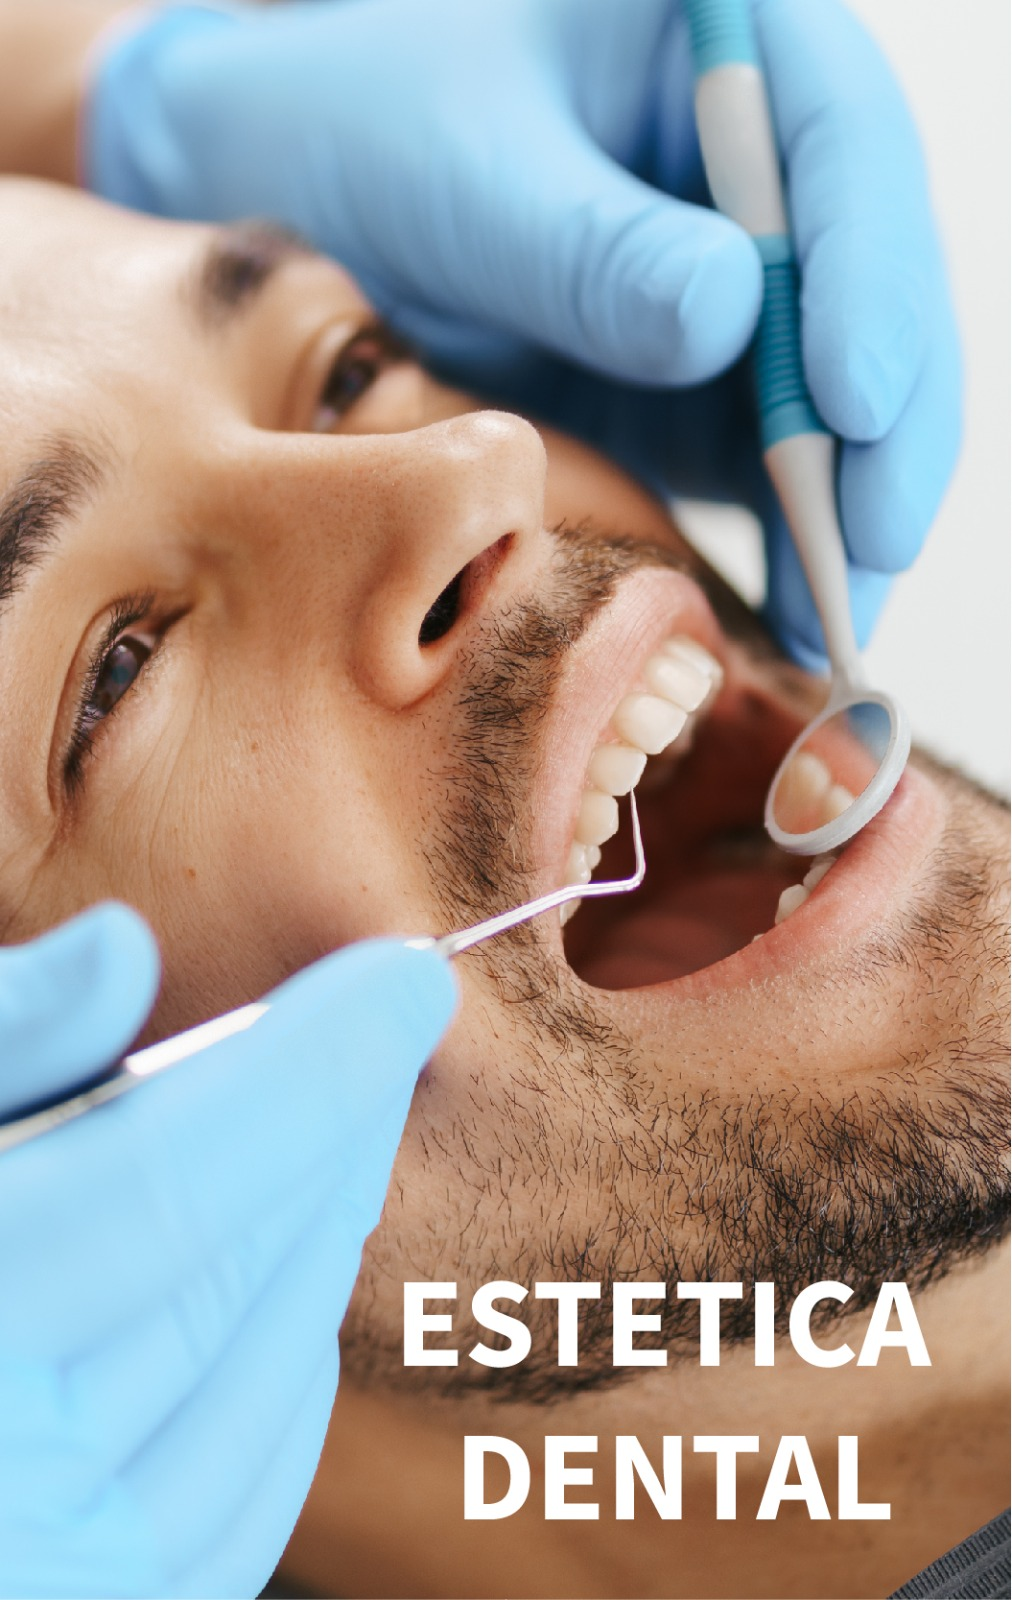
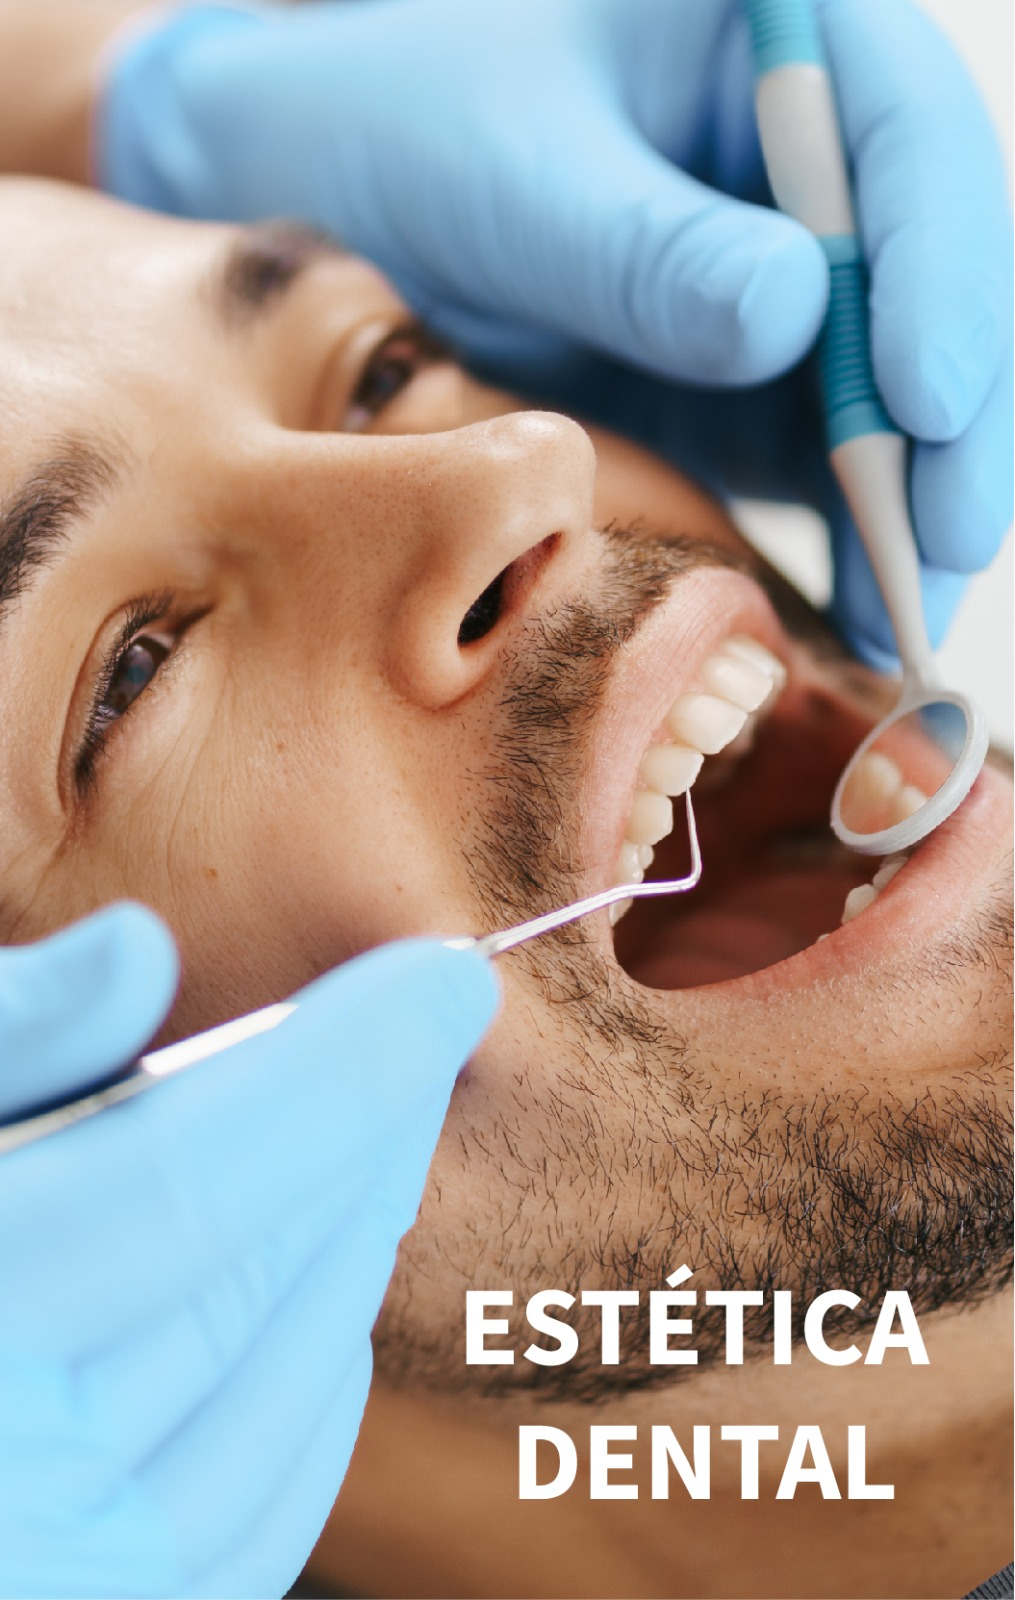
CORRECIONES

diff --git a/especialidades.html b/especialidades.html
@@ -23,7 +23,7 @@
         integrity="sha512-iBBXm8fW90+nuLcSKlbmrPcLa0OT92xO1BIsZ+ywDWZCvqsWgccV3gFoRBv0z+8dLJgyAHIhR35VZc2oM/gI1w=="
         crossorigin="anonymous" referrerpolicy="no-referrer" />
     <!-- icono -->
-    <link rel="icon" href="img/logo1.ico">   
+    <link rel="icon" href="img/logo1.ico">
     <!-- CSS -->
     <link rel="stylesheet" href="especialidades.css">
     <title>especialidades</title>
@@ -53,7 +53,7 @@
                                 <a class="nav-link active" aria-current="page" href="index.html">Inicio</a>
                             </li>
                             <li class="nav-item">
-                                <a class="nav-link" href="casos.html">Casos Clinicos</a>
+                                <a class="nav-link" href="casos.html">Casos Clínicos</a>
                             </li>
 
                             <li class="nav-item">
@@ -162,7 +162,7 @@
         <div class="container-fluid especialidades d-flex flex-column flex-md-row align-items-center">
             <div class="d-flex flex-column col-12 col-md-8">
                 <div class="titulo">
-                    <h2 class="fw-bold pb-5 text-center">Protesis</h2>
+                    <h2 class="fw-bold pb-5 text-center">Prótesis dental</h2>
                 </div>
                 <div class="px-4 p-4">
                     <p class="descripcion fst-light text-justify">
@@ -188,7 +188,7 @@
         <div class="container-fluid especialidades-b d-flex flex-column flex-md-row align-items-center">
             <div class="d-flex flex-column col-12 col-md-8">
                 <div class="titulo">
-                    <h2 class="fw-bold pb-5 text-center">Odontopediatria</h2>
+                    <h2 class="fw-bold pb-5 text-center">Odontopediatría</h2>
                 </div>
                 <div class="px-4 p-4">
                     <p class="descripcion fst-light text-justify">
@@ -215,7 +215,7 @@
         <div class="container-fluid especialidades d-flex flex-column flex-md-row align-items-center">
             <div class="d-flex flex-column col-12 col-md-8">
                 <div class="titulo">
-                    <h2 class="fw-bold pb-5 text-center">Cariologia o estetica dental</h2>
+                    <h2 class="fw-bold pb-5 text-center">Estética dental</h2>
                 </div>
                 <div class="px-4 p-4">
                     <p class="descripcion fst-light text-justify">
@@ -261,12 +261,12 @@
                 <div class="col-lg-6">
                     <div class="footer_datos">
                         <img src="img/logo.png" class="img-fluid p-2" width="">
-                        <h4 class="d-none d-md-block">No esperes más para cuidar de tu salud dental.<br>programa una
-                            cita en línea
-                            con
-                            nosotros hoy mismo <br>y experimenta la diferencia que nuesro odontología<br> en linea puede
-                            hacer para
-                            tu sonrisa.</h4>
+                        <h4 class="d-none d-md-block">No esperes más para cuidar de tu salud dental.Programa una cita en
+                            línea
+                            con nosotros hoy mismo y experimenta la diferencia que nuesro odontología en linea puede
+                            hacer
+                            para tu sonrisa.
+                        </h4>
                     </div>
                 </div>
 

diff --git a/index.html b/index.html
@@ -21,7 +21,7 @@
     <nav class="navbar bg-body-tertiary  navbar-expand-lg fixed-top">
       <div class="container-fluid">
         <a class="logo navbar-brand ps-3" href="index.html">
-          <img cclass="img-fluid" width="180" src="img/logo.png" alt="logo">
+          <img class="img-fluid" width="180" src="img/logo.png" alt="logo">
         </a>
         <button class="navbar-toggler" type="button" data-bs-toggle="offcanvas" data-bs-target="#offcanvasNavbar"
           aria-controls="offcanvasNavbar" aria-label="Toggle navigation">
@@ -30,7 +30,7 @@
         <div class="offcanvas offcanvas-start" tabindex="-1" id="offcanvasNavbar"
           aria-labelledby="offcanvasNavbarLabel">
           <div class="offcanvas-header">
-            <h5 class="offcanvas-title" id="offcanvasNavbarLabel">odontología estética ñingle</h5>
+            <h5 class="offcanvas-title" id="offcanvasNavbarLabel">odontología estética Ñingle</h5>
             <button type="button" class="btn-close" data-bs-dismiss="offcanvas" aria-label="Close"></button>
           </div>
           <div class="offcanvas-body">
@@ -39,7 +39,7 @@
                 <a class="nav-link active" aria-current="page" href="index.html">Inicio</a>
               </li>
               <li class="nav-item">
-                <a class="nav-link" href="casos.html">Casos Clinicos</a>
+                <a class="nav-link" href="casos.html">Casos Clínicos</a>
               </li>
 
               <li class="nav-item">
@@ -105,7 +105,7 @@
     <section>
       <div class="testimonios pb-5">
         <div class="titulo">
-          <h2 class="text-center fw-bold text-white">¿Qué Opinan Nuestros Pacientes?</h2>
+          <h2 class="text-center fw-bold text-white">¿Qué opinan nuestros pacientes?</h2>
         </div>
         <div id="carouselOpiniones" class="carousel container-fluid slide" data-bs-ride="carousel"
           data-bs-interval="5000">
@@ -250,10 +250,10 @@
       <div class="col-lg-6">
         <div class="footer_datos">
           <img src="img/logo.png" class="img-fluid p-2" width="">
-          <h4 class="d-none d-md-block">No esperes más para cuidar de tu salud dental.<br>programa una cita en línea
-            con
-            nosotros hoy mismo <br>y experimenta la diferencia que nuesro odontología<br> en linea puede hacer para
-            tu sonrisa.</h4>
+          <h4 class="d-none d-md-block">No esperes más para cuidar de tu salud dental.Programa una cita en línea
+            con nosotros hoy mismo y experimenta la diferencia que nuesro odontología en linea puede hacer 
+            para tu sonrisa.
+          </h4>
         </div>
       </div>
 

diff --git a/casos.html b/casos.html
@@ -21,7 +21,7 @@
 
 
 
-    <title>Casos Clinicos</title>
+    <title>Casos Clínicos</title>
 
 </head>
 
@@ -54,7 +54,7 @@
 
                     <div class="offcanvas-header">
 
-                        <h5 class="offcanvas-title" id="offcanvasNavbarLabel">odontología estética ñingle</h5>
+                        <h5 class="offcanvas-title" id="offcanvasNavbarLabel">Odontología estética Ñingle</h5>
 
                         <button type="button" class="btn-close" data-bs-dismiss="offcanvas" aria-label="Close"></button>
 
@@ -72,7 +72,7 @@
 
                             <li class="nav-item">
 
-                                <a class="nav-link" href="casos.html">Casos Clinicos</a>
+                                <a class="nav-link" href="casos.html">Casos Clínicos</a>
 
                             </li>
 
@@ -116,7 +116,7 @@
 
                 <div class="titulo-slider">
 
-                    <h2 class="text-white">Implantacion dental</h2>
+                    <h2 class="text-white">Implantación dental</h2>
 
                 </div>
 
@@ -138,7 +138,7 @@
 
                 <div class="titulo-slider1">
 
-                    <h2 class="text-white" >Implantacion dental</h2>
+                    <h2 class="text-white" >Implantación dental</h2>
 
                 </div>
 
@@ -259,12 +259,10 @@
                 <div class="col-lg-6">
                     <div class="footer_datos">
                         <img src="img/logo.png" class="img-fluid p-2" width="">
-                        <h4 class="d-none d-md-block">No esperes más para cuidar de tu salud dental.<br>programa una
-                            cita en línea
-                            con
-                            nosotros hoy mismo <br>y experimenta la diferencia que nuesro odontología<br> en linea puede
-                            hacer para
-                            tu sonrisa.</h4>
+                        <h4 class="d-none d-md-block">No esperes más para cuidar de tu salud dental.Programa una cita en línea
+                            con nosotros hoy mismo y experimenta la diferencia que nuesro odontología en linea puede hacer 
+                            para tu sonrisa.
+                        </h4>
                     </div>
                 </div>
 

diff --git a/reservarCita.html b/reservarCita.html
@@ -26,7 +26,7 @@
         <div class="offcanvas offcanvas-start" tabindex="-1" id="offcanvasNavbar"
           aria-labelledby="offcanvasNavbarLabel">
           <div class="offcanvas-header">
-            <h5 class="offcanvas-title" id="offcanvasNavbarLabel">odontología estética ñingle</h5>
+            <h5 class="offcanvas-title" id="offcanvasNavbarLabel">Odontología estética Ñingle</h5>
             <button type="button" class="btn-close" data-bs-dismiss="offcanvas" aria-label="Close"></button>
           </div>
           <div class="offcanvas-body">
@@ -35,7 +35,7 @@
                 <a class="nav-link active" aria-current="page" href="index.html">Inicio</a>
               </li>
               <li class="nav-item">
-                <a class="nav-link" href="casos.html">Casos Clinicos</a>
+                <a class="nav-link" href="casos.html">Casos Clínicos</a>
               </li>
               
               <li class="nav-item">
@@ -91,10 +91,10 @@ viewBox="0 24 150 28" preserveAspectRatio="none" shape-rendering="auto">
   <div class="col-lg-6">
     <div class="footer_datos">
       <img src="img/logo.png" class="img-fluid p-2" width="">
-      <h4 class="d-none d-md-block">No esperes más para cuidar de tu salud dental.<br>programa una cita en línea
-        con
-        nosotros hoy mismo <br>y experimenta la diferencia que nuesro odontología<br> en linea puede hacer para
-        tu sonrisa.</h4>
+      <h4 class="d-none d-md-block">No esperes más para cuidar de tu salud dental.Programa una cita en línea
+        con nosotros hoy mismo y experimenta la diferencia que nuesro odontología en linea puede hacer 
+        para tu sonrisa.
+      </h4>
     </div>
   </div>
 

diff --git a/contacto.html b/contacto.html
@@ -30,7 +30,7 @@
         <div class="offcanvas offcanvas-start" tabindex="-1" id="offcanvasNavbar"
           aria-labelledby="offcanvasNavbarLabel">
           <div class="offcanvas-header">
-            <h5 class="offcanvas-title" id="offcanvasNavbarLabel">odontología estética ñingle</h5>
+            <h5 class="offcanvas-title" id="offcanvasNavbarLabel">Odontología estética Ñingle</h5>
             <button type="button" class="btn-close" data-bs-dismiss="offcanvas" aria-label="Close"></button>
           </div>
           <div class="offcanvas-body">
@@ -39,7 +39,7 @@
                 <a class="nav-link active" aria-current="page" href="index.html">Inicio</a>
               </li>
               <li class="nav-item">
-                <a class="nav-link" href="casos.html">Casos Clinicos</a>
+                <a class="nav-link" href="casos.html">Casos Clínicos</a>
               </li>
 
               <li class="nav-item">
@@ -141,10 +141,10 @@ viewBox="0 24 150 28" preserveAspectRatio="none" shape-rendering="auto">
   <div class="col-lg-6">
     <div class="footer_datos">
       <img src="img/logo.png" class="img-fluid p-2" width="">
-      <h4 class="d-none d-md-block">No esperes más para cuidar de tu salud dental.<br>programa una cita en línea
-        con
-        nosotros hoy mismo <br>y experimenta la diferencia que nuesro odontología<br> en linea puede hacer para
-        tu sonrisa.</h4>
+      <h4 class="d-none d-md-block">No esperes más para cuidar de tu salud dental.Programa una cita en línea
+        con nosotros hoy mismo y experimenta la diferencia que nuesro odontología en linea puede hacer 
+        para tu sonrisa.
+      </h4>
     </div>
   </div>
 
